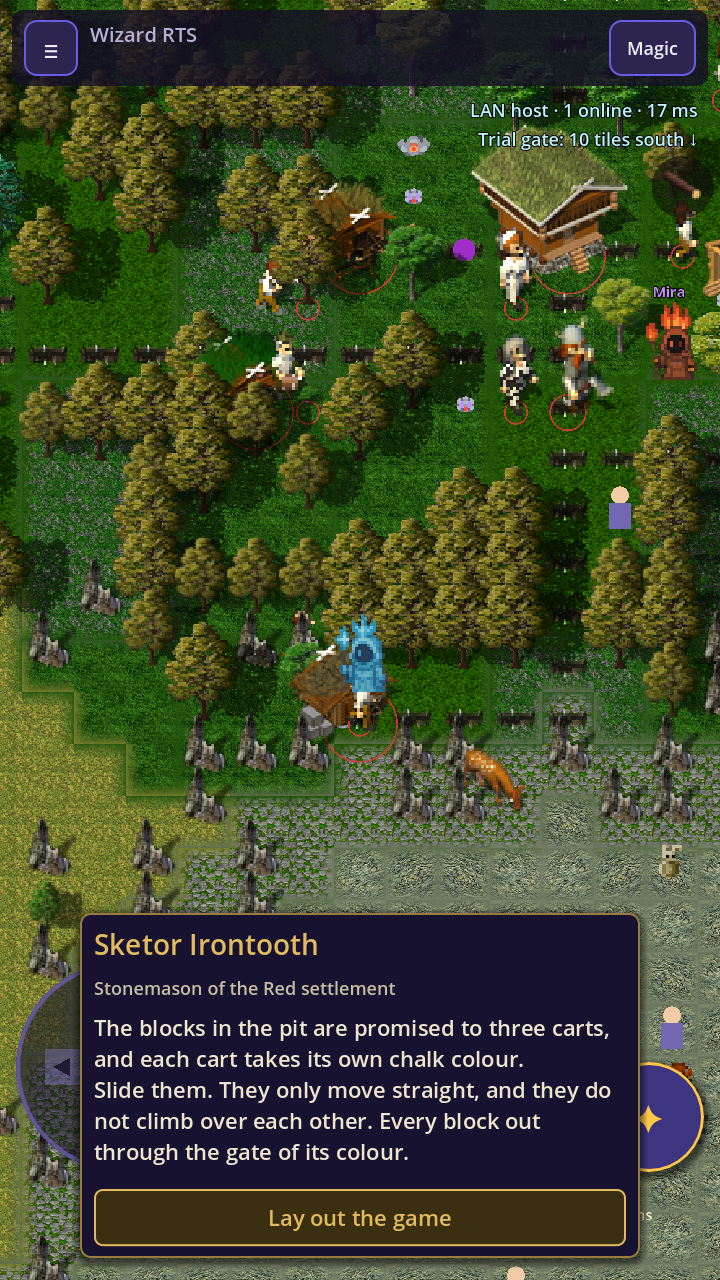
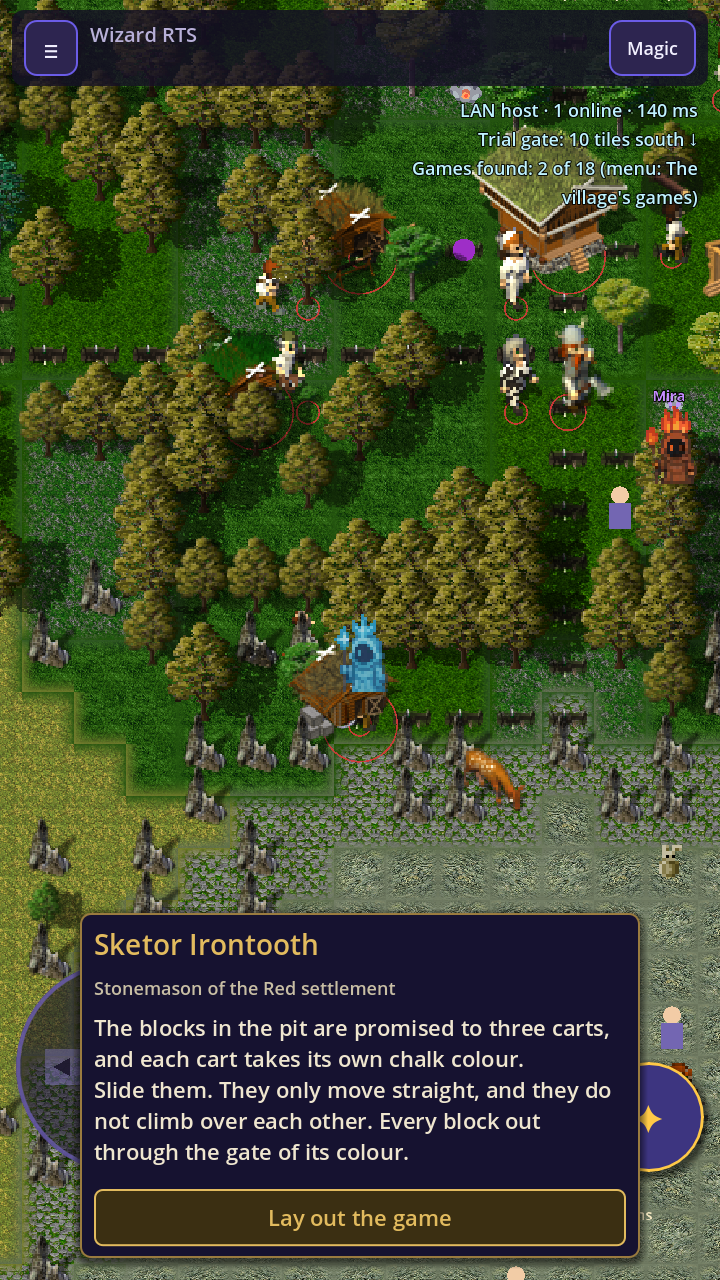
Village minigames M5: the Games page in the pause menu and the games-found status line of the games village, the headed run over one game per widget with the Games page step, every engine deterministic across PYTHONHASHSEEDs, the guide (docs/MINIGAMES_GUIDE.md), the handoff and CLAUDE.md entries, ve

diff --git a/WizardRTSHybrid/tests/test_minigames_rules.py b/WizardRTSHybrid/tests/test_minigames_rules.py
@@ -4,8 +4,11 @@ from __future__ import annotations
 
 import json
 import random
+from pathlib import Path
 
 import pytest
+
+HYB_ROOT = Path(__file__).resolve().parents[1]
 
 from wizard_rts.minigames import base, catalogue
 
@@ -645,3 +648,48 @@ def test_guesswho_takes_the_villages_people_from_the_world():
     for p in people:
         for t in gw.TRAITS:
             assert p[t], (p["name"], t)
+
+
+# ------------------------------------------------------------------ M5: determinism across hash seeds
+
+def test_every_engine_is_deterministic_across_pythonhashseed():
+    """Two processes with different PYTHONHASHSEEDs play every engine to the end from the same seed and reach the same state (no decision by the
+    iteration order of a set of strings, no wall-clock time)."""
+    import json
+    import os
+    import subprocess
+    import sys
+
+    code = (
+        "import json, random, sys\n"
+        "from wizard_rts.minigames import base, catalogue\n"
+        "out = {}\n"
+        "for game in sorted(catalogue.ENGINES):\n"
+        "    eng = catalogue.engine(game)\n"
+        "    g = catalogue.entry(game) or {}\n"
+        "    st = eng.new(21, {**g.get('opts', {}), **catalogue.skin_for(g), 'host': 'them'})\n"
+        "    rng = random.Random(21)\n"
+        "    for _ in range(9000):\n"
+        "        if st['over']:\n"
+        "            break\n"
+        "        acts = eng.actions(st, 0)\n"
+        "        if acts:\n"
+        "            eng.act(st, 0, rng.choice(acts))\n"
+        "            continue\n"
+        "        for seat in range(1, len(st['seats'])):\n"
+        "            if eng.actions(st, seat):\n"
+        "                eng.act(st, seat, eng.bot(st, seat, base.rng(st, 'bot:%d' % seat)))\n"
+        "                break\n"
+        "        else:\n"
+        "            break\n"
+        "    out[game] = st\n"
+        "print(json.dumps(out, sort_keys=True))\n"
+    )
+    results = []
+    for hs in ("0", "12345"):
+        env = {**os.environ, "PYTHONHASHSEED": hs, "DMB_NO_NATIVE": "1"}
+        r = subprocess.run([sys.executable, "-c", code], capture_output=True, text=True, env=env, cwd=str(HYB_ROOT), timeout=600)
+        assert r.returncode == 0, r.stderr[-2000:]
+        results.append(json.loads(r.stdout.strip().splitlines()[-1]))
+    assert results[0] == results[1]
+    assert all(st["over"] for st in results[0].values()), [g for g, st in results[0].items() if not st["over"]]

diff --git a/WizardRTSHybrid/wizard_rts/net/protocol.py b/WizardRTSHybrid/wizard_rts/net/protocol.py
@@ -7,8 +7,8 @@ when a message changes shape; bump GAME_VERSION with every release of the app.
 
 from __future__ import annotations
 
-PROTOCOL_VERSION = 3  # 3: mortal apprentices (dead/body/resurrection/ending in the state view), the Trial ops and view, the catch-up page; 2: real-time PvP casts, the narrative ops, single-player save/continue
-GAME_VERSION = "0.4.0"  # the app version the APK is built from (also in godot_project/export_presets.cfg version/name)
+PROTOCOL_VERSION = 4  # 4: the village minigames (minigame_act/leave/view, the `minigame` extra on a choice, the journal's games); 3: mortal apprentices (dead/body/resurrection/ending in the state view), the Trial ops and view, the catch-up page; 2: real-time PvP casts, the narrative ops, single-player save/continue
+GAME_VERSION = "0.5.0"  # the app version the APK is built from (also in godot_project/export_presets.cfg version/name)
 
 DEFAULT_PORT = 8765
 DISCOVERY_PORT = 8767

diff --git a/WizardRTSHybrid/wizard_rts/narrative/games_village.py b/WizardRTSHybrid/wizard_rts/narrative/games_village.py
@@ -13,7 +13,7 @@ from __future__ import annotations
 from typing import Any
 
 from wizard_rts import construction as con
-from wizard_rts.narrative import config, events, mother, mortality, party, pests, residents, tutorial, wizard
+from wizard_rts.narrative import config, events, mother, mortality, pests, residents, tutorial, wizard
 
 GRAPH = "games"
 EXTRA_BUILDINGS = (  # kind, definition, label, size, offset from the warehouse (the showcase's own offsets)

diff --git a/docs/MINIGAMES_GUIDE.md b/docs/MINIGAMES_GUIDE.md
@@ -1,0 +1,60 @@
+# The village's games: a guide
+
+Eighteen games the people of the village play with the apprentice, each tied to the work of the person who plays it. Nothing is won or lost but
+the game itself: no ware, no coin, no magic, no standing moves because of a game (the owner's brief). Plan: `docs/PLAN_VILLAGE_MINIGAMES.md`;
+progress: `docs/ledger/MINIGAMES_PROGRESS.md`.
+
+## Playing
+
+Walk up to a person and talk (E, the action button, or tap them and choose Talk). Among what they have to say is the offer of their game
+("Teach me the game of three colours.", "What is the game you play with the dice?"). Take it: they explain the game in their own words, and
+**Lay out the game** puts the table on the screen. The person waits while you play (they are held, the way a conversation holds them); the world
+goes on around you. On the table: the areas of the game (cards, dice, tallies, a board, faces), the host's last words, and the moves you can make
+as buttons (1 to 9 on a keyboard) or by tapping the pieces themselves. **Leave the table** (Escape) at any time: unfinished is unfinished, and the
+host says so. When the game ends, the host's closing line comes back on the conversation card, with the offer to play again. The pause menu's
+**The village's games** page lists what you have found and played and where every game is.
+
+A building's inspect card says which games are played there ("Played here: ..."). A due rung of the magic ladder waits until the table is closed.
+
+## The developer's village of games
+
+Every host in one village, no stranger, nothing to interrupt: the developer menu (`DMB_DEV_MENU=1`, or `--dmb-dev`) has **GAMES VILLAGE**. It starts a
+private single-player session on its own saves folder (`dmb_runs/games_village`, never the player's world), built fresh on seed 507 with the early
+buildings the start lacks (a farm, a tavern, a bakery, a fisher's hut), the mother, the warehouse keeper, a sawyer at the sawmill, a water-carrier at
+the well, and a Rollkeeper with two contestants at a fire on the green. The apprentice begins beside the warehouse; the status line counts the games
+found. On the host's command line the same village is `--games-village` (or `HYBRID_GAMES_VILLAGE=1`).
+
+Headed test: `client/tests/run_hybrid_minigames.gd` starts the village itself and plays the games named in `HYBRID_GAMES` (default: one per widget);
+`HYBRID_SHOT_DIR` collects screenshots. Python: `py -3 -m pytest WizardRTSHybrid/tests/test_minigames_rules.py WizardRTSHybrid/tests/test_minigames_village.py -q`.
+
+## The games, who plays them, and the rules in the villagers' words
+
+| Game | Host | Rules as played here |
+| --- | --- | --- |
+| **Three colours, no knots** (Rock Paper Scissors) | the mentor | Flame burns Vine, Vine drinks Frost, Frost kills Flame. Best of five. The mentor leans on the sign that beats your last throw, sometimes. |
+| **The Ward you cannot see** (Hanabi) | the mentor, with Mira | Three players, five colours (Flame, Frost, Vine, Light, Stone), ones to fives. Your cards face away from you. A turn: play a card, discard one for a clue token (eight at most), or spend a token to tell someone every card of one colour or one number they hold. A wrong play is a fracture; three and the Ward breaks. The last card gives everyone one more turn. Eighteen built wins. |
+| **Felling the big one** (Can't Stop) | the lumberjack | Four dice, paired as you like; each pair's sum is a trunk (2 to 12). Strokes on at most three trunks a turn. Bank your cuts or throw again; a throw that fits none of your trunks splits the trunk and the turn's cuts are lost. A trunk cut through is yours. Three trunks win. |
+| **Which sapling is new?** (memory) | the forester | Today's plantings: three, then four, then five. Each time one is new; point at it. Point at an old one and it stops. Fourteen named is a forester's eye. |
+| **Knucklebones** (Yahtzee) | the stonemason | Five carved stones, three throws a turn, hold by tapping. Thirteen orders on the slate (singles to sixes with the bonus of 35 at 63, three and four of a face, a full course, a short and a long run of ashlar, five of a face, rubble). The better slate wins. |
+| **Clearing the face** (sliding blocks) | the stonemason; **The fussy sheep** at the farm | Blocks (or sheep) slide one cell at a time, never over each other. Each leaves through the gate of its chalk colour on the rim. Tap a block, then a free cell in line with it, or the rim; the arrow keys work too. Every board can be cleared; the par is shown. |
+| **Tracks** (reaction) | the hunter | A sign, then another. Same beast or different? Say it fast: two points quick and right, one slow and right, nothing wrong. Twelve signs. |
+| **Skins** (five-card draw) | the hunter | Pebbles for pelts. An ante each, five cards, bet (check, bet, call, raise, fold), throw away up to three by tapping and take fresh, bet again, show. Five hands. More pebbles than you came with wins. |
+| **Who ordered the planks?** (Guess Who) | the sawyer | The faces are the village's real people. Tap the one you think of; the sawyer has the one who ordered in mind. Ask yes-or-no questions about trade, tribe, what they carry, where they work, hat, beard, hair; the faces that cannot be it turn down. Name them by tapping a face. A wrong name loses. The sawyer asks too. |
+| **Twenty-one feet** (Blackjack) | the sawyer | Cards are plank lengths: cut to twenty-one, not an inch over. Two pebbles a hand; the sawyer stands on seventeen; a natural pays three to two; double on two cards; split a pair once. Five hands. |
+| **The windlass** (Roulette) | the water-carrier | Thirty-seven notches, one green. A pebble a spin on red or black rope, odd or even, low or high, a dozen, or a notch (35 to 1). Eight spins. |
+| **The tally board** (Rummikub) | the warehouse keeper | Tallies one to thirteen in four colours, no jokers, fourteen each. Lay runs of a colour or sets of a number (three or more); open the ledger with thirty points from your rack; afterwards add a tally to any meld. Lay nothing and you draw. Empty rack wins; a dry pool ends on the lighter rack. Tap tallies to select, then lay or add. |
+| **Under the cloth** (Skull) | a carrier | Three carriers, three flowers and a rat skull each on covered carts. Lay a cart face down; then lay another or bid how many carts you dare uncover. Raise or pass. The bidder uncovers their own first, then anyone's, one at a time: a skull costs a cart and the round; the bid made is a point; two points win. |
+| **The carriers' pot** (Texas Hold'em) | a carrier | Heads up, fixed limit, blinds one and two. Two cards each, the flop, the turn and the river on the road, a round of betting on each; best five of seven. Six hands. |
+| **Bid your bouts** (Oh Hell) | the Rollkeeper, with two contestants | Hands of five, four, three, two, one, two, three; trumps turned. Bid your tricks; the dealer may not make the bids come out even. Exactly your bid scores ten plus the bid; anything else nothing. |
+| **Knocked out** (Knock-out Whist) | a contestant | Seven cards, then six, down to one. Trumps turned, then chosen by whoever took most tricks. Take no trick and you are out, except once: a dog's life, one card next hand to play on any trick you choose. Last standing. |
+| **The stew carrots** (Take the Last Carrot) | the mother | Three rows of carrots. Take one, two or three from one row. Whoever takes the last carrot peels the lot. |
+| **The same bolt** (Pairs) | the mother | Sixteen swatches face down, each with a twin. Turn two; a pair is kept and you go again; a miss turns back. Most pairs when the basket is empty. |
+
+## For the next developer
+
+* An engine is one module in `WizardRTSHybrid/wizard_rts/minigames/` following `base.py` (`new`, `actions`, `act`, `bot`, `view`; `prepare` when it reads the
+  world). Register it in `catalogue.ENGINES`; its words go in `data/narrative/minigames.json` (`host`, `offer`, `intro`, `lines`, `opts`, `skin`).
+* The client draws whatever the view's `areas` say (`text`, `score`, `signs`, `cards`, `dice`, `tiles`, `grid`, `faces`, `choices`) and offers the
+  view's `actions`; a `hidden` action is one the pieces themselves send. A `timed` view makes the table send `ms` with every action.
+* The table is per apprentice seat (`world.narrative["minigames"]`), dropped with its conversation and on a load. `minigame_act` keeps the conversation
+  from going idle; walking away ends both.

diff --git a/docs/NEXT_AGENT_HANDOFF.md b/docs/NEXT_AGENT_HANDOFF.md
@@ -1,5 +1,25 @@
 # Next agent handoff
 
+## 20 Oct 2026: the village minigames, 0.5.0 (branch `feature/village-minigames`, from `feature/player-stress-and-progression` at `336d3dec`)
+
+The owner approved `docs/PLAN_VILLAGE_MINIGAMES.md` ("go", with the defaults: five-card draw, a due rung waits for a table, 0.5.0 / protocol 4 / Android
+code 5, no APK until asked, solo tables). Ledger: `docs/ledger/MINIGAMES_PROGRESS.md`; player and developer guide: `docs/MINIGAMES_GUIDE.md`. In one
+paragraph: eighteen games are played at a conversation with the people of the early village, their rules in Python (`WizardRTSHybrid/wizard_rts/minigames/`,
+one pure engine per game under the contract in `base.py`, the villagers' seats played by bots, `table.py` runs one table per apprentice seat, `catalogue.py`
+plus `data/narrative/minigames.json` say who plays what and what they say), offered as `game:<id>` choices by `narrative/conversation.py` (the host is held
+under the table, the closing line comes back, nothing in the world changes: one `minigame_played` log entry and the journal's `games` page), driven by three
+ops (`minigame_act`, `minigame_leave`, `minigame_view`; protocol 4), drawn by one Godot table (`client/minigames/minigame_table.gd` and five drawn widgets,
+no PNG). The developer's village of games (`narrative/games_village.py`, host `--games-village`, the developer menu's GAMES VILLAGE on its own saves folder)
+has every host: the mentor (Rock Paper Scissors, Hanabi), the lumberjack (Can't Stop), the forester (the memory game), the stonemason (Yahtzee, the sliding
+blocks; the farm has the sheep skin), the hunter (the reaction game, five-card draw), a sawyer at the sawmill (Guess Who over the village's real people,
+Blackjack), a water-carrier at the well (Roulette), the keeper (Rummikub), the carriers (Skull, Hold'em), a Rollkeeper and two contestants on the green
+(Oh Hell, Knock-out Whist), the mother (Take the Last Carrot, Pairs). Tests: `py -3 -m pytest WizardRTSHybrid/tests/test_minigames_rules.py
+WizardRTSHybrid/tests/test_minigames_village.py -q`; headed `client/tests/run_hybrid_minigames.gd` (starts the village itself; `HYBRID_GAMES=a,b,c`
+picks the games; shots in `WizardRTSHybrid/docs/evidence/minigames/`); `run_menu_routes.gd` covers the developer entry. Known on the base branch, not this
+work: `test_narrative_conversation::test_a_conversation_has_a_beginning_responses_and_a_declared_end` (four lumberjack topics). Not done: no phone has run
+0.5.0 (no APK built); two humans at one table; rewards of any kind (none by the brief). Rules kept: content frozen (residents and dialogue only), never
+`git add -A`, `docs/release_notes.md` never committed, merging into `main` is the owner's call.
+
 ## 18 Oct 2026: stress testing, the magic ladder, the rats, the noticing dialogue, 0.4.0 (branch `feature/player-stress-and-progression`, from `main` at `1b9513dd`)
 
 The owner approved `docs/PLAN_PLAYER_STRESS_AND_PROGRESSION.md` (plan first, then the ladder revised to the owner's three rules: after three duels the

diff --git a/docs/ledger/MINIGAMES_PROGRESS.md b/docs/ledger/MINIGAMES_PROGRESS.md
@@ -96,7 +96,18 @@ Legend: `[ ]` not started, `[~]` in progress, `[x]` done.
 - [x] The face widget clips and shortens names and traits (two lines each) after the first shot showed them overlapping.
 
 ## M5 The village complete, evidence, documents
-- [ ] Every host; the Games page reachable in Wizard World; the headed run over three widgets; `docs/MINIGAMES_GUIDE.md`; handoff; versions.
+- [x] Every host stands in the games village with every game (`test_minigames_village.py` checks each engine has a host there).
+- [x] The Games page: Wizard World has no journal, so the pause menu carries "The village's games" (found and played, where every game is, the found ones
+  ticked); the LAN status line of the games village counts the games found. Both checked by the headed run (`99_games_page.png`, `00_village.png`).
+- [x] Headed `run_hybrid_minigames.gd` default list is one game per widget (signs, dice, the grid, cards, faces): `HYBRID_MINIGAMES_OK`, no script
+  errors; the Games page step added. Shots in `WizardRTSHybrid/docs/evidence/minigames/`.
+- [x] `tests/test_minigames_rules.py`: every engine played to the end in two processes under different `PYTHONHASHSEED`s reaches the same state (69 tests
+  in the two minigame suites).
+- [x] `docs/MINIGAMES_GUIDE.md` (how to play, the developer's village, the eighteen games with their hosts and rules in the villagers' words, notes for the
+  next developer); `docs/NEXT_AGENT_HANDOFF.md` entry; `CLAUDE.md` line.
+- [x] Versions: `GAME_VERSION` 0.5.0 and `PROTOCOL_VERSION` 4 on both sides, Android code 5 / 0.5.0 in `export_presets.cfg`. No APK built (the owner's
+  default: not until asked). `run_menu_routes.gd`: `MENU_ROUTES_OK`.
+- [~] Full Python suite (`tests` minus `test_five_minutes` and `test_neuro_storage`, which needs `psutil`, absent from the venv): started; the result is in the session log below.
 
 ## Session log
-- 20 Oct 2026: plan approved ("go", defaults); M0 built and verified; M1 built and verified; M2 built and verified; M3 built and verified; M4 built and verified (all eighteen games).
+- 20 Oct 2026: plan approved ("go", defaults); M0 built and verified; M1 built and verified; M2 built and verified; M3 built and verified; M4 built and verified (all eighteen games); M5 done.

diff --git a/CLAUDE.md b/CLAUDE.md
@@ -13,3 +13,5 @@ Approved programme (owner authorised an autonomous implementation run on 12 Oct 
 **One game, Wizard World (16 Oct 2026, Android 0.2.0):** the player-facing menu is Wizard World only (single player = a private hosted session with an AI fellow apprentice; Host / Join Multiplayer share the same world). The old Ashwell/Trial Day adventure, Quick Duel and G01 entries are developer tools in `dev_menu.tscn` (`DMB_DEV_MENU=1`); they are kept, not deleted. PvP Ward duels are real-time with independent casts. Run-time images must load through `client/scripts/asset_loader.gd` (a Godot export does not ship source PNGs). Entry: `docs/ANDROID_PLAYTEST_CORRECTIONS.md`.
 
 **Opening RPG and the Trial (16 Oct 2026, 0.3.0, branch `feature/opening-rpg-and-trial`):** mortal apprentices, the permanent world, the free opening, the village situations, the Trial of Champions (zones A to K on the legacy tile builder) and Mira in the Trial. Plan `docs/PLAN_OPENING_RPG_AND_DEATHTRAP.md`, ledger `docs/ledger/OPENING_RPG_PROGRESS.md`, player guide `docs/OPENING_RPG_PLAYER_GUIDE.md`, phone checklist `docs/OPENING_RPG_TWO_PHONE_CHECKLIST.md`, canon `docs/TRIAL_CANON_STATUS.md`, dialogue review `docs/DIALOGUE_REVIEW.md`. Merging into `main` is the owner's call.
+
+**Village minigames (20 Oct 2026, 0.5.0, branch `feature/village-minigames`):** eighteen games played at a conversation with the early village's people (plan `docs/PLAN_VILLAGE_MINIGAMES.md`, ledger `docs/ledger/MINIGAMES_PROGRESS.md`, guide `docs/MINIGAMES_GUIDE.md`); rules in `WizardRTSHybrid/wizard_rts/minigames/`, the developer's village of games behind the developer menu (`DMB_DEV_MENU=1`) or the host flag `--games-village`. No reward for winning or losing. Merging into `main` is the owner's call.
